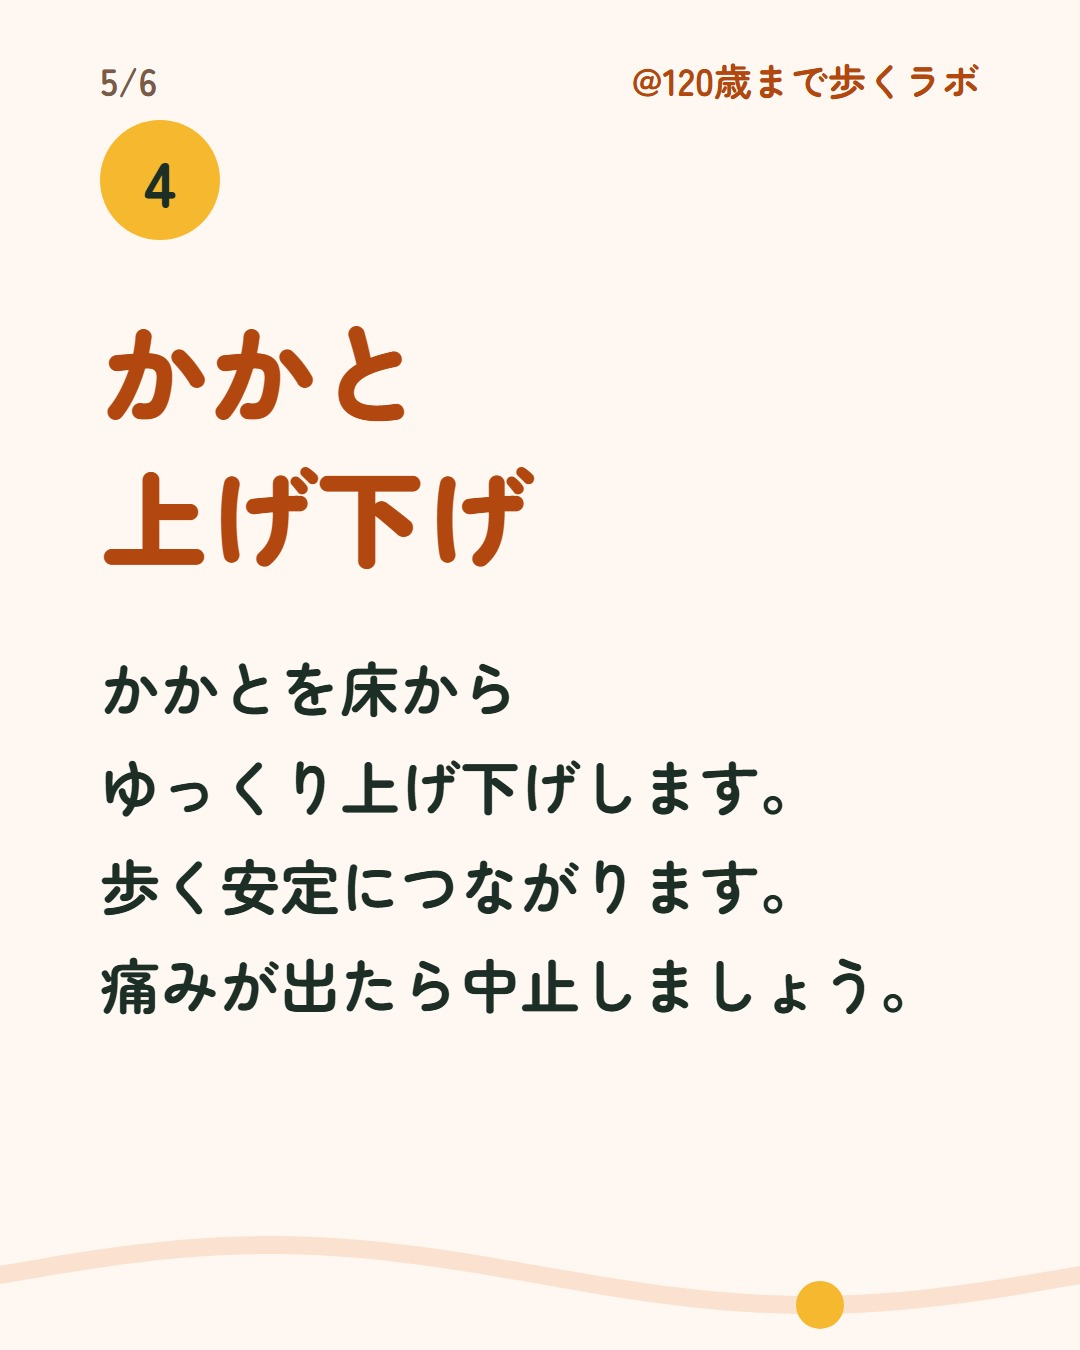
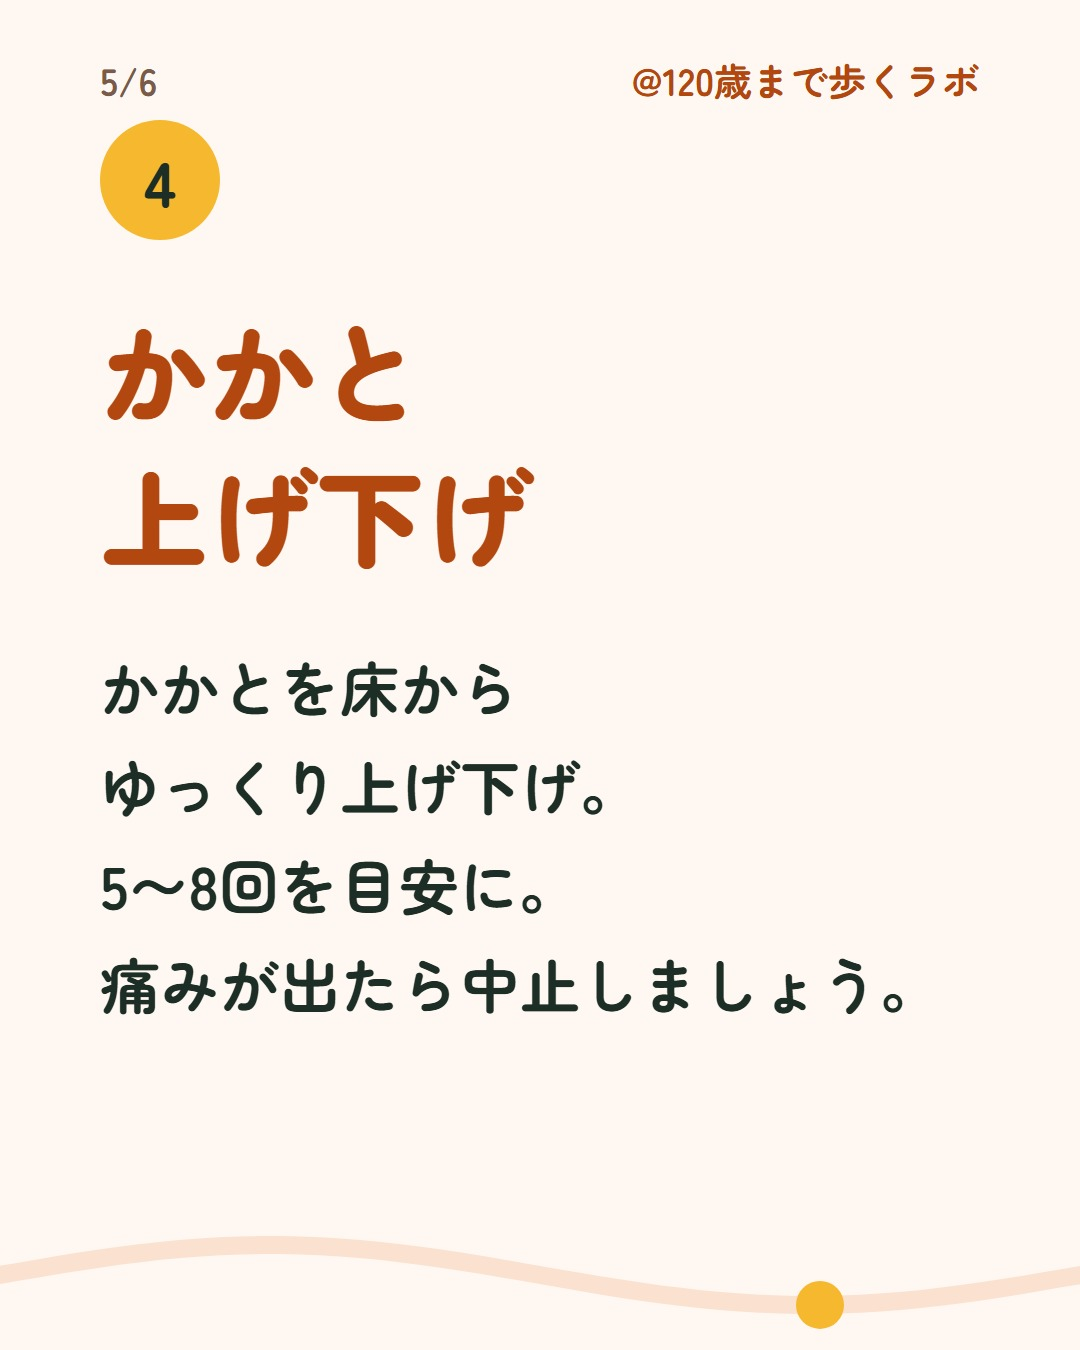
フレイル・骨粗しょう症の投稿を追加、つまずき・膝ケア体操に出典を追加し回数と見出しを修正、CLAUDE.md に職能団体の資料を出典として追記

Changed region(s): [[0.0917, 0.56, 0.7333, 0.6844]]

diff --git a/CLAUDE.md b/CLAUDE.md
@@ -64,6 +64,7 @@
 - 健康・医療の内容は、次のどれかにもとづいて書く。記憶だけで書かない
   - 厚生労働省・国立健康危機管理研究機構（JIHS）・気象庁・内閣府・政府広報オンライン・自治体などの公的機関
   - 日本呼吸器学会などの学会、診療ガイドライン
+  - 日本理学療法士協会などの職能団体の資料
   - NHKなど報道機関の報道（公的機関の発表を伝えているもの）
 - 参照したページのURLを post.json の "sources" に配列で書く（画像には出ないが記録として残す）
 - キャプションの最後（ハッシュタグの前）に「参考：〇〇（機関名）」を1〜2行で入れる
